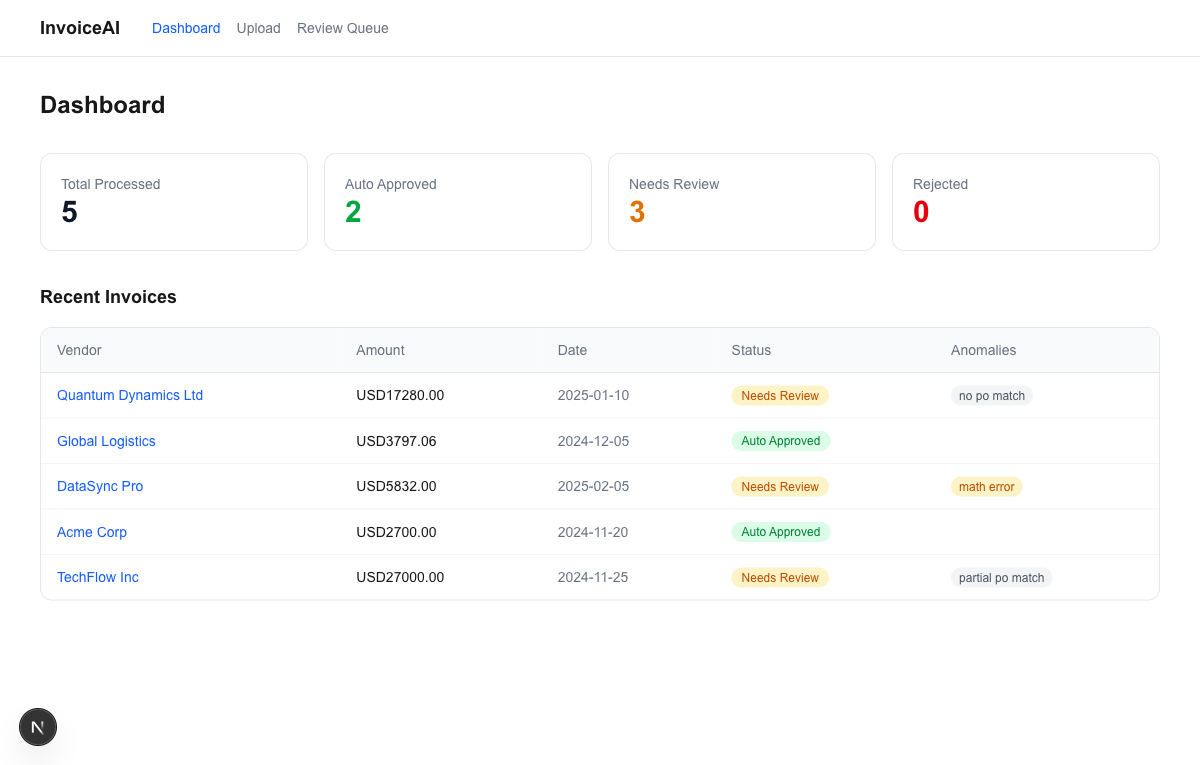
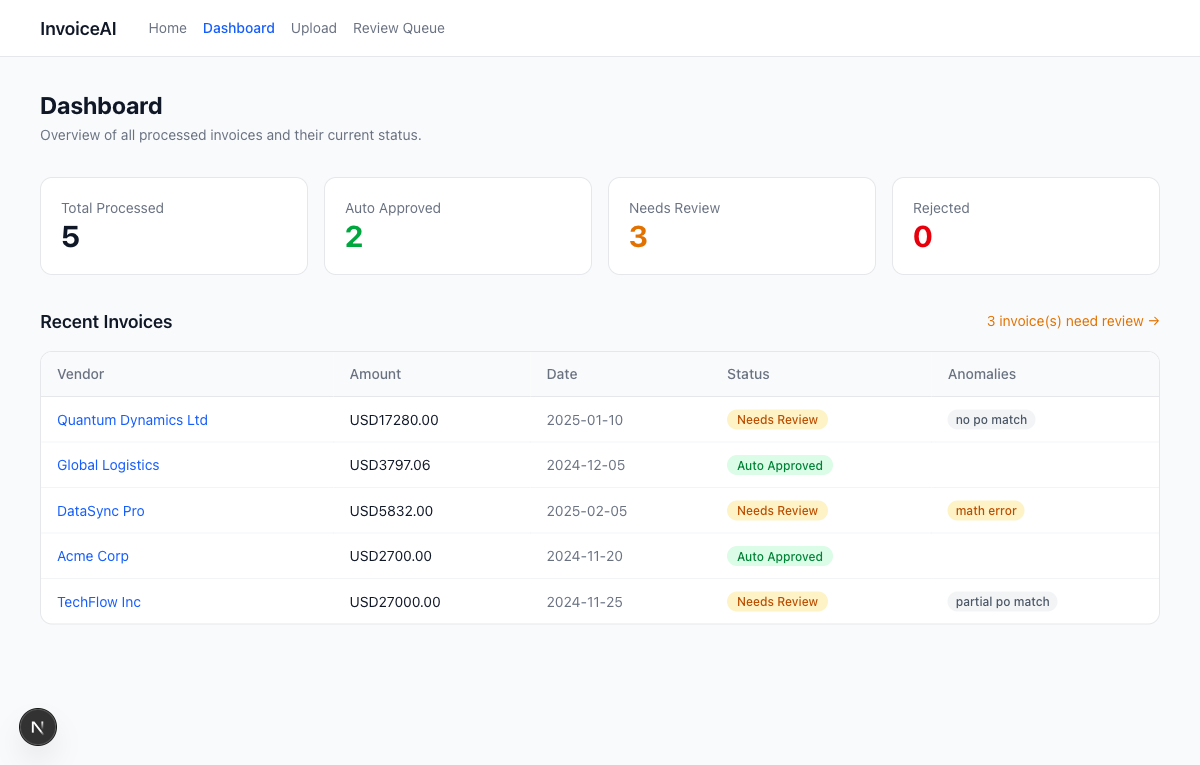
feat: add landing page, improve page context, update screenshots

diff --git a/src/app/page.tsx b/src/app/page.tsx
@@ -1,31 +1,81 @@
-// src/app/page.tsx
-import { db } from "@/lib/db";
-import { invoices } from "@/lib/db/schema";
-import { eq, desc, count } from "drizzle-orm";
-import { StatCard } from "@/components/StatCard";
-import { InvoiceTable } from "@/components/InvoiceTable";
+import Link from "next/link";
 
-export const dynamic = "force-dynamic";
-
-export default function DashboardPage() {
-  const all = db.select().from(invoices).orderBy(desc(invoices.createdAt)).limit(10).all();
-  const total = db.select({ count: count() }).from(invoices).get()?.count ?? 0;
-  const autoApprovedCount = db.select({ count: count() }).from(invoices).where(eq(invoices.status, "auto_approved")).get()?.count ?? 0;
-  const flaggedCount = db.select({ count: count() }).from(invoices).where(eq(invoices.status, "flagged")).get()?.count ?? 0;
-  const rejectedCount = db.select({ count: count() }).from(invoices).where(eq(invoices.status, "rejected")).get()?.count ?? 0;
+export default function HomePage() {
+  const steps = [
+    { num: "1", title: "Extract", desc: "Claude Vision reads your invoice and extracts vendor, amounts, line items, and dates automatically." },
+    { num: "2", title: "Validate", desc: "Zod schemas check required fields and verify math — do line items add up to the subtotal?" },
+    { num: "3", title: "Match", desc: "Fuzzy search finds matching purchase orders by vendor name and amount (10% tolerance)." },
+    { num: "4", title: "Detect", desc: "Six anomaly rules flag duplicates, amount mismatches, missing fields, and math errors." },
+    { num: "5", title: "Route", desc: "Clean invoices are auto-approved. Anything suspicious goes to the human review queue." },
+  ];
 
   return (
-    <div className="space-y-8">
-      <h1 className="text-2xl font-bold">Dashboard</h1>
-      <div className="grid grid-cols-2 gap-4 sm:grid-cols-4">
-        <StatCard label="Total Processed" value={total} />
-        <StatCard label="Auto Approved" value={autoApprovedCount} color="text-green-600" />
-        <StatCard label="Needs Review" value={flaggedCount} color="text-amber-600" />
-        <StatCard label="Rejected" value={rejectedCount} color="text-red-600" />
+    <div className="space-y-16 max-w-4xl mx-auto py-8">
+      {/* Hero */}
+      <div className="text-center space-y-4">
+        <h1 className="text-4xl font-bold tracking-tight">InvoiceAI</h1>
+        <p className="text-lg text-gray-500 max-w-2xl mx-auto">
+          AI-powered invoice processing that extracts data from any document, catches anomalies, and knows when to ask a human.
+        </p>
+        <div className="flex gap-3 justify-center pt-4">
+          <Link href="/upload" className="rounded-lg bg-blue-600 px-5 py-2.5 text-sm font-medium text-white hover:bg-blue-700 transition-colors">
+            Upload an Invoice
+          </Link>
+          <Link href="/dashboard" className="rounded-lg border border-gray-200 bg-white px-5 py-2.5 text-sm font-medium text-gray-700 hover:bg-gray-50 transition-colors">
+            View Dashboard
+          </Link>
+        </div>
       </div>
-      <div>
-        <h2 className="text-lg font-semibold mb-4">Recent Invoices</h2>
-        <InvoiceTable invoices={all} />
+
+      {/* How it works */}
+      <div className="space-y-6">
+        <h2 className="text-2xl font-bold text-center">How It Works</h2>
+        <p className="text-sm text-gray-500 text-center">Upload a PDF or image — the pipeline does the rest in seconds.</p>
+        <div className="grid gap-4 sm:grid-cols-5">
+          {steps.map((s) => (
+            <div key={s.num} className="rounded-xl border border-gray-200 bg-white p-4 space-y-2">
+              <div className="w-7 h-7 flex items-center justify-center rounded-full bg-blue-100 text-blue-700 text-xs font-bold">{s.num}</div>
+              <p className="font-semibold text-sm">{s.title}</p>
+              <p className="text-xs text-gray-500 leading-relaxed">{s.desc}</p>
+            </div>
+          ))}
+        </div>
+      </div>
+
+      {/* What gets flagged */}
+      <div className="space-y-4">
+        <h2 className="text-2xl font-bold text-center">What Gets Flagged</h2>
+        <div className="grid gap-3 sm:grid-cols-3">
+          <div className="rounded-xl border border-red-100 bg-red-50 p-4">
+            <p className="text-sm font-medium text-red-700">High Severity</p>
+            <p className="text-xs text-red-600 mt-1">Duplicate invoices, amounts over 2x the purchase order</p>
+          </div>
+          <div className="rounded-xl border border-amber-100 bg-amber-50 p-4">
+            <p className="text-sm font-medium text-amber-700">Medium Severity</p>
+            <p className="text-xs text-amber-600 mt-1">Missing required fields, math errors in line items</p>
+          </div>
+          <div className="rounded-xl border border-gray-200 bg-gray-50 p-4">
+            <p className="text-sm font-medium text-gray-600">Low Severity</p>
+            <p className="text-xs text-gray-500 mt-1">No purchase order match, partial vendor match</p>
+          </div>
+        </div>
+      </div>
+
+      {/* Quick start */}
+      <div className="rounded-xl border border-blue-100 bg-blue-50 p-6 text-center space-y-3">
+        <p className="text-sm font-medium text-blue-800">Quick Demo</p>
+        <p className="text-xs text-blue-600">Go to Upload and click "Try with sample invoices" — 5 pre-built invoices will run through the pipeline, each triggering a different scenario.</p>
+        <Link href="/upload" className="inline-block rounded-lg bg-blue-600 px-4 py-2 text-sm font-medium text-white hover:bg-blue-700 transition-colors">
+          Try It Now
+        </Link>
+      </div>
+
+      {/* Tech */}
+      <div className="text-center space-y-2 pb-8">
+        <p className="text-xs text-gray-400">Built with Next.js, Claude Vision API, Zod, Drizzle ORM, SQLite, and Tailwind CSS</p>
+        <p className="text-xs text-gray-400">
+          <a href="https://github.com/martin-minghetti/invoice-processor" className="underline hover:text-gray-600" target="_blank" rel="noopener noreferrer">View on GitHub</a>
+        </p>
       </div>
     </div>
   );

diff --git a/src/app/dashboard/page.tsx b/src/app/dashboard/page.tsx
@@ -1,0 +1,55 @@
+import { db } from "@/lib/db";
+import { invoices } from "@/lib/db/schema";
+import { eq, desc, count } from "drizzle-orm";
+import { StatCard } from "@/components/StatCard";
+import { InvoiceTable } from "@/components/InvoiceTable";
+import Link from "next/link";
+
+export const dynamic = "force-dynamic";
+
+export default function DashboardPage() {
+  const all = db.select().from(invoices).orderBy(desc(invoices.createdAt)).limit(10).all();
+  const total = db.select({ count: count() }).from(invoices).get()?.count ?? 0;
+  const autoApprovedCount = db.select({ count: count() }).from(invoices).where(eq(invoices.status, "auto_approved")).get()?.count ?? 0;
+  const approvedCount = db.select({ count: count() }).from(invoices).where(eq(invoices.status, "approved")).get()?.count ?? 0;
+  const flaggedCount = db.select({ count: count() }).from(invoices).where(eq(invoices.status, "flagged")).get()?.count ?? 0;
+  const rejectedCount = db.select({ count: count() }).from(invoices).where(eq(invoices.status, "rejected")).get()?.count ?? 0;
+
+  return (
+    <div className="space-y-8">
+      <div>
+        <h1 className="text-2xl font-bold">Dashboard</h1>
+        <p className="text-sm text-gray-500 mt-1">Overview of all processed invoices and their current status.</p>
+      </div>
+
+      <div className="grid grid-cols-2 gap-4 sm:grid-cols-4">
+        <StatCard label="Total Processed" value={total} />
+        <StatCard label="Auto Approved" value={autoApprovedCount + approvedCount} color="text-green-600" />
+        <StatCard label="Needs Review" value={flaggedCount} color="text-amber-600" />
+        <StatCard label="Rejected" value={rejectedCount} color="text-red-600" />
+      </div>
+
+      {total === 0 ? (
+        <div className="rounded-xl border border-gray-200 bg-white p-8 text-center space-y-3">
+          <p className="text-gray-500">No invoices processed yet.</p>
+          <p className="text-sm text-gray-400">Upload an invoice or try the sample invoices to see the pipeline in action.</p>
+          <Link href="/upload" className="inline-block rounded-lg bg-blue-600 px-4 py-2 text-sm font-medium text-white hover:bg-blue-700 transition-colors mt-2">
+            Go to Upload
+          </Link>
+        </div>
+      ) : (
+        <div>
+          <div className="flex items-center justify-between mb-4">
+            <h2 className="text-lg font-semibold">Recent Invoices</h2>
+            {flaggedCount > 0 && (
+              <Link href="/review" className="text-sm text-amber-600 hover:underline">
+                {flaggedCount} invoice(s) need review →
+              </Link>
+            )}
+          </div>
+          <InvoiceTable invoices={all} />
+        </div>
+      )}
+    </div>
+  );
+}

diff --git a/src/app/review/page.tsx b/src/app/review/page.tsx
@@ -1,8 +1,8 @@
-// src/app/review/page.tsx
 import { db } from "@/lib/db";
 import { invoices } from "@/lib/db/schema";
 import { eq, desc } from "drizzle-orm";
 import { InvoiceTable } from "@/components/InvoiceTable";
+import Link from "next/link";
 
 export const dynamic = "force-dynamic";
 
@@ -17,9 +17,29 @@ export default function ReviewPage() {
     <div className="space-y-8">
       <div>
         <h1 className="text-2xl font-bold">Review Queue</h1>
-        <p className="text-sm text-gray-500 mt-1">{flagged.length} invoice(s) need human review</p>
+        <p className="text-sm text-gray-500 mt-1">
+          Invoices flagged by the anomaly detection pipeline. Click on any invoice to review the details and approve or reject it.
+        </p>
       </div>
-      <InvoiceTable invoices={flagged} />
+
+      {flagged.length > 0 ? (
+        <>
+          <div className="rounded-xl border border-amber-100 bg-amber-50 p-4">
+            <p className="text-sm text-amber-700">
+              <span className="font-medium">{flagged.length} invoice(s)</span> need human review — flagged for anomalies like missing fields, math errors, duplicate detection, or unmatched purchase orders.
+            </p>
+          </div>
+          <InvoiceTable invoices={flagged} />
+        </>
+      ) : (
+        <div className="rounded-xl border border-gray-200 bg-white p-8 text-center space-y-3">
+          <p className="text-gray-500">No invoices pending review.</p>
+          <p className="text-sm text-gray-400">All processed invoices either passed validation or have already been reviewed.</p>
+          <Link href="/upload" className="inline-block rounded-lg bg-blue-600 px-4 py-2 text-sm font-medium text-white hover:bg-blue-700 transition-colors mt-2">
+            Upload New Invoice
+          </Link>
+        </div>
+      )}
     </div>
   );
 }

diff --git a/src/app/upload/page.tsx b/src/app/upload/page.tsx
@@ -67,8 +67,19 @@ export default function UploadPage() {
 
   return (
     <div className="space-y-8 max-w-xl mx-auto">
-      <h1 className="text-2xl font-bold">Upload Invoice</h1>
+      <div>
+        <h1 className="text-2xl font-bold">Upload Invoice</h1>
+        <p className="text-sm text-gray-500 mt-1">Upload a PDF or image of an invoice. Claude Vision will extract all data and run it through the anomaly detection pipeline.</p>
+      </div>
       <UploadZone onUpload={handleUpload} onProcessSamples={handleProcessSamples} isProcessing={isProcessing} />
+      {!isProcessing && !result && (
+        <div className="rounded-xl border border-gray-200 bg-white p-4 space-y-2">
+          <p className="text-xs font-medium text-gray-500">Supported formats</p>
+          <p className="text-xs text-gray-400">PDF, JPEG, PNG, WebP — any invoice, receipt, or billing document.</p>
+          <p className="text-xs font-medium text-gray-500 pt-2">What happens next</p>
+          <p className="text-xs text-gray-400">The pipeline extracts vendor, amounts, and line items, validates math, matches against purchase orders, and flags anomalies. Clean invoices are auto-approved; suspicious ones go to the review queue.</p>
+        </div>
+      )}
       <PipelineProgress currentStep={step} status={step >= 5 ? "done" : "processing"} />
       {error && (
         <div className="rounded-xl border border-red-200 bg-red-50 p-4 text-sm text-red-700">{error}</div>

diff --git a/src/components/Nav.tsx b/src/components/Nav.tsx
@@ -3,7 +3,8 @@ import Link from "next/link";
 import { usePathname } from "next/navigation";
 
 const links = [
-  { href: "/", label: "Dashboard" },
+  { href: "/", label: "Home" },
+  { href: "/dashboard", label: "Dashboard" },
   { href: "/upload", label: "Upload" },
   { href: "/review", label: "Review Queue" },
 ];

diff --git a/README.md b/README.md
@@ -79,13 +79,17 @@ Runs ~31 unit tests covering the full pipeline: extraction schema validation, PO
 
 ## Screenshots
 
-| Dashboard | Upload |
-|-----------|--------|
-| ![Dashboard](public/screenshots/dashboard.png) | ![Upload](public/screenshots/upload.png) |
+| Home | Dashboard |
+|------|-----------|
+| ![Home](public/screenshots/home.png) | ![Dashboard](public/screenshots/dashboard.png) |
 
-| Review Queue | Invoice Detail |
-|--------------|---------------|
-| ![Review Queue](public/screenshots/review.png) | ![Invoice Detail](public/screenshots/detail.png) |
+| Upload | Review Queue |
+|--------|--------------|
+| ![Upload](public/screenshots/upload.png) | ![Review Queue](public/screenshots/review.png) |
+
+| Invoice Detail |
+|---------------|
+| ![Invoice Detail](public/screenshots/detail.png) |
 
 ---
 
